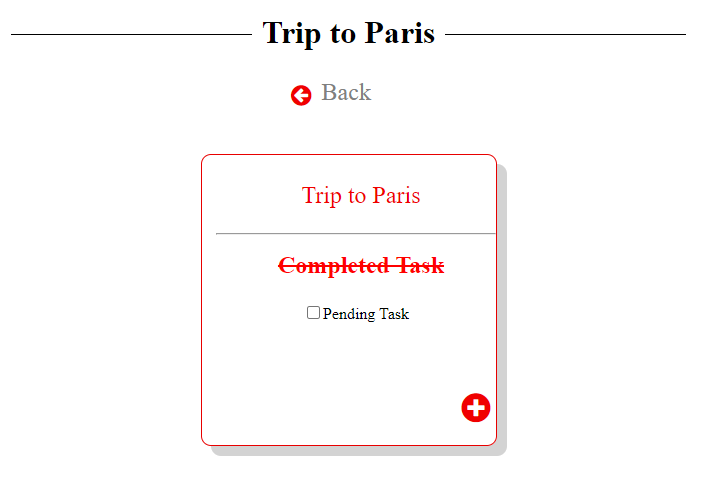
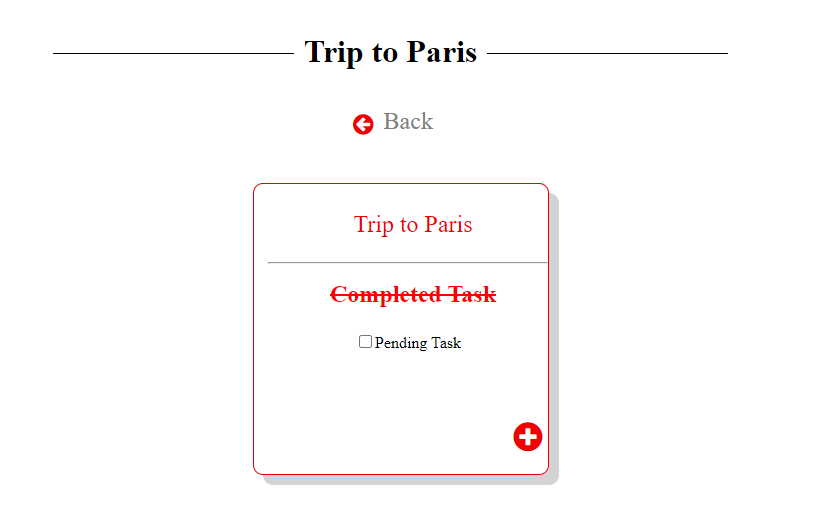
Updated margin in backgroung image

diff --git a/index.css b/index.css
@@ -1,8 +1,34 @@
 .parent {
     display: flex;
     margin-top: 0px;
-    margin-left: 420px;
+    margin-left: 400px;
 }
+.parent_index2 {
+    display: flex;
+    margin-top: 0px;
+    margin-left: 550px;
+}
+
+.bg-image {
+    background-image: url("./index.png");
+    filter: blur(8px);
+    -webkit-filter: blur(8px);
+    height: 100%; 
+    width:100%;
+    background-position: center;
+    background-repeat: no-repeat;
+    position:absolute;
+  }
+  .bg2-image {
+    background-image: url("./index1.png");
+    filter: blur(8px);
+    -webkit-filter: blur(8px);
+    height: 100%; 
+    width:100%;
+    background-position: center;
+    background-repeat: no-repeat;
+    position:absolute;
+  }
 .child {
     width: 150px;
     height: 200px;
@@ -73,7 +99,7 @@
 }
 .h1_index_style {
     font-size:38px;
-    margin-left: 420px;
+    margin-left: 400px;
     display: inline-block;
     margin-top :160px;  
 }
@@ -94,14 +120,18 @@
     color:#F00000;
     border: 1px solid #F00000;
     display: inline-block;
-    width:450px;
+    width:350px;
     height: 150px;
     text-align:center;
-    margin-top: 100px;
-    margin-left: 400px;
+    margin-top: 200px;
+    margin-left: 480px;
     padding-bottom: 30px;
     background-color: white;
+    z-index: 1;
+    position: relative;
+    border-radius: 7px;
    }
+   
    .form_index4_style {
     color:#F00000;
     border: 1px solid #F00000;
@@ -109,10 +139,13 @@
     width:350px;
     height: 150px;
     text-align:center;
-    margin-top: 100px;
+    margin-top: 300px;
     margin-left: 500px;
     padding-bottom: 30px;
     background-color: white;
+    z-index: 1;
+    position: relative;
+    border-radius: 7px;
    }
 
    .index4_input_style {
@@ -147,7 +180,7 @@
 .i_index2_top_style {
     font-size:34px;
     color:#F00000;
-    margin-left:500px;
+    margin-left:640px;
     margin-bottom: 5px;
     margin-top:4px;
     

diff --git a/index3.html b/index3.html
@@ -6,14 +6,23 @@
     <meta name="viewport" content="width=device-width, initial-scale=1.0">
     <title>Document</title>
     <style>
-        body {
-            background-image: url(./index.png);
-            backdrop-filter: blur(10px);
-            background-repeat: no-repeat;
-            background-position: center;
-            padding-top: 250px;
-            margin-top:20px;
-            }
+        .bg-image {
+  /* The image used */
+  background-image: url("./index.png");
+  
+  /* Add the blur effect */
+  filter: blur(8px);
+  -webkit-filter: blur(8px);
+  
+  /* Full height */
+  height: 100%; 
+  width:100%;
+  /* Center and scale the image nicely */
+  background-position: center;
+  background-repeat: no-repeat;
+  position:absolute;
+}
+       
         p{
             font-size: x-large;
         }
@@ -21,6 +30,7 @@
     <link rel="stylesheet" href="./index.css">
 </head>
 <body>
+    <div class="bg-image"></div>
     <div class="form_style">
         <p>Add New List</p>
         <input class="input_style" type="text" name="input_value" id="input_value" value="">

diff --git a/index4.html b/index4.html
@@ -6,20 +6,24 @@
     <meta name="viewport" content="width=device-width, initial-scale=1.0">
     <title>Document</title>
     <style>
-        body {
-            background-image: url(./index1.png);
-            backdrop-filter: blur(7px);
-            background-repeat: no-repeat;
-            background-position: center;
-            padding-top:200px;
-           }
-         p{
+        p{
             font-size: x-large;
         }
+        .bg2-image {
+    background-image: url("./index1.png");
+    filter: blur(8px);
+    -webkit-filter: blur(8px);
+    height: 100%; 
+    width:100%;
+    background-position: center;
+    background-repeat: no-repeat;
+    position:absolute;
+  }
     </style>
     <link rel="stylesheet" href="./index.css">
 </head>
 <body>
+    <div class="bg2-image"></div>
     <div class="form_index4_style">
         <p>Add New List</p>
         <input class="index4_input_style" type="text" name="input_value" id="input_value" value="">

diff --git a/index2.html b/index2.html
@@ -12,8 +12,8 @@
         border-bottom: 1px solid #000; 
         line-height: 0.1em;
         margin: 10px 0 20px; 
-        margin-left: 230px;
-        margin-top: 90px;
+        margin-left: 350px;
+        margin-top: 150px;
     } 
     h1 span { 
     background:#fff; 
@@ -32,7 +32,7 @@
     <p class="p_style">Back</p>
     </div>
     <br>
-    <div class="parent">
+    <div class="parent_index2">
         <div class="child_index2">
             <p class="p_index2_style">Trip to Paris</p>
             <hr>
